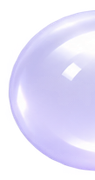
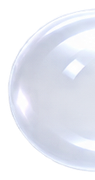
Glam: lighter white pearl bubbles; pearl switch with violet track
- New white pearl circle and pill slices (text reads better)
- GlamSwitch: violet pill track when on / pearl when off, pearl ball knob with spring
- Used for alarm toggles and the Повтор switch

Claude-Session: https://claude.ai/code/session_01LuaPK4uKVYHWn7zZvGWxdz

diff --git a/src/components/Glam.tsx b/src/components/Glam.tsx
@@ -2,8 +2,8 @@
 // Стрелки рисуются в координатах картинки (1024×1024), камушек в центре кладём ПОВЕРХ стрелок,
 // чтобы стрелки «выходили» из-под него, как у настоящих часов.
 
-import { ReactNode, useState } from 'react';
-import { Image, StyleProp, StyleSheet, View, ViewStyle } from 'react-native';
+import { ReactNode, useEffect, useRef, useState } from 'react';
+import { Animated, Image, Pressable, StyleProp, StyleSheet, View, ViewStyle } from 'react-native';
 import Svg, { Defs, G, Image as SvgImage, Line, LinearGradient, Polygon, Stop } from 'react-native-svg';
 import { THEME_OBJECTS } from '../theme';
 
@@ -176,4 +176,27 @@ export function GlamBubble({
 
 const bubble = StyleSheet.create({
   base: { alignItems: 'center', justifyContent: 'center' },
+});
+
+// Переключатель: фиолетовая «таблетка» (вкл) / жемчужная (выкл) и жемчужный шарик-бегунок
+export function GlamSwitch({ value, onValueChange }: { value: boolean; onValueChange: (v: boolean) => void }) {
+  const x = useRef(new Animated.Value(value ? 1 : 0)).current;
+  useEffect(() => {
+    Animated.spring(x, { toValue: value ? 1 : 0, useNativeDriver: true, speed: 20, bounciness: 8 }).start();
+  }, [value, x]);
+  const translateX = x.interpolate({ inputRange: [0, 1], outputRange: [2, SW_W - SW_KNOB - 2] });
+  return (
+    <Pressable onPress={() => onValueChange(!value)} hitSlop={10}>
+      <GlamBubble style={sw.track} tint={value ? 'accent' : 'pearl'}>
+        <Animated.Image source={BUBBLES.pearl.circle} style={[sw.knob, { transform: [{ translateX }] }]} />
+      </GlamBubble>
+    </Pressable>
+  );
+}
+
+const SW_W = 58;
+const SW_KNOB = 30;
+const sw = StyleSheet.create({
+  track: { width: SW_W, height: 34, alignItems: 'flex-start' },
+  knob: { width: SW_KNOB, height: SW_KNOB },
 });

diff --git a/src/components/AlarmEditor.tsx b/src/components/AlarmEditor.tsx
@@ -7,7 +7,7 @@ import { setAudioModeAsync, useAudioPlayer, useAudioPlayerStatus } from 'expo-au
 import { fontOf, theme, useTheme } from '../theme';
 import { PixelBox, PixelIcon, PixelRadio, PixelSwitch } from './Pixel';
 import { PixelTimePicker } from './PixelTimePicker';
-import { GlamBubble } from './Glam';
+import { GlamBubble, GlamSwitch } from './Glam';
 import { Alarm, Weekday, newAlarm } from '../alarms';
 import { CATEGORIES, CategoryId, Voice, getMelody, melodiesIn } from '../melodies';
 import { SegmentedSwitch } from './SegmentedSwitch';
@@ -286,6 +286,8 @@ export function AlarmEditor({ visible, alarm, onSave, onDelete, onClose }: Props
                   <Text style={[styles.rowLabel, f(10.7)]}>Повтор</Text>
                   {px ? (
                     <PixelSwitch value={draft.snooze} onValueChange={(snooze) => set({ snooze })} />
+                  ) : th.glam ? (
+                    <GlamSwitch value={draft.snooze} onValueChange={(snooze) => set({ snooze })} />
                   ) : (
                     <Switch
                       value={draft.snooze}

diff --git a/src/components/AlarmCard.tsx b/src/components/AlarmCard.tsx
@@ -10,7 +10,7 @@ import { LayoutAnimation, Pressable, StyleSheet, Switch, Text, View } from 'reac
 import Svg, { Path } from 'react-native-svg';
 import { fontOf, theme, useTheme } from '../theme';
 import { PixelBox, PixelIcon, PixelSwitch } from './Pixel';
-import { GlamBubble } from './Glam';
+import { GlamBubble, GlamSwitch } from './Glam';
 import { Alarm, formatAlarmTime, formatRepeat } from '../alarms';
 import { getMelody } from '../melodies';
 import { formatCountdownShort, nextRing } from '../time';
@@ -157,6 +157,8 @@ export function AlarmCard({ alarms, onAdd, onEdit, onToggle, onDelete }: Props) 
             {!deleting &&
               (px ? (
                 <PixelSwitch value={a.enabled} onValueChange={() => onToggle(a.id)} />
+              ) : th.glam ? (
+                <GlamSwitch value={a.enabled} onValueChange={() => onToggle(a.id)} />
               ) : (
                 <Switch
                   value={a.enabled}
